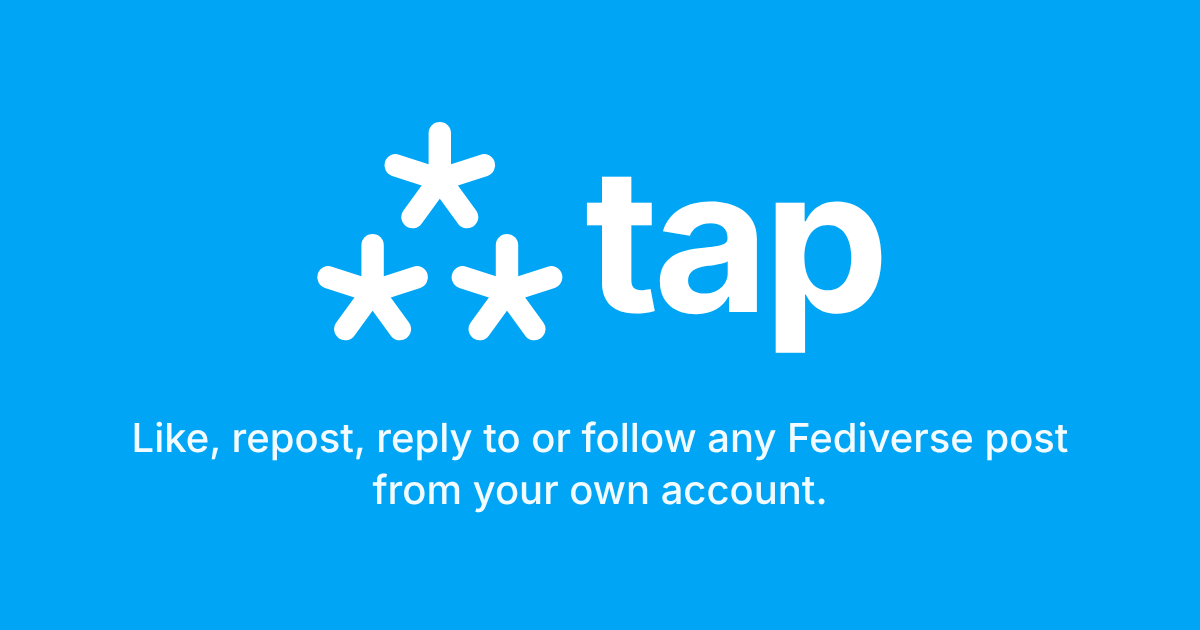
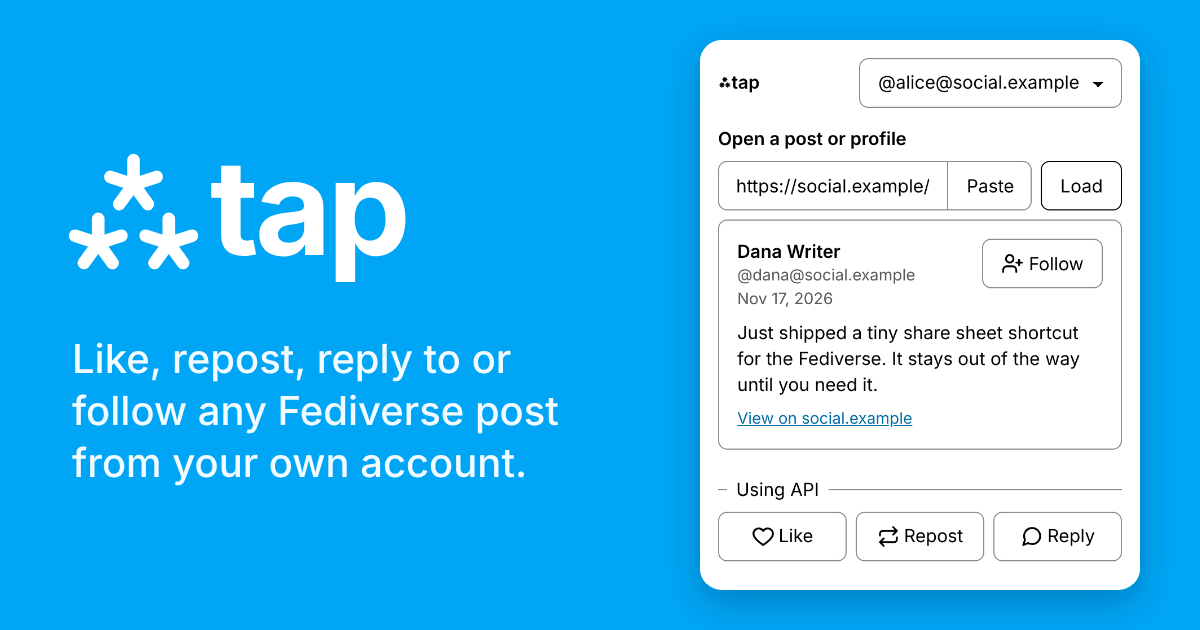
Show the app with a post loaded in the link preview image
The screenshot is captured from the mock server with tools/og/capture.js.

Claude-Session: https://claude.ai/code/session_01B8Ng6bi788ys3Ph3Qe6Keq

diff --git a/tools/og/capture.js b/tools/og/capture.js
@@ -1,0 +1,37 @@
+// Captures the app with a post loaded from the mock server, for the link preview image
+// (tools/og/app.png, framed by tools/og/og-image.svg). Start the dev server first (`npm run dev`),
+// then run `node tools/og/capture.js [base URL]`; the default base is https://localhost:8443.
+// The mock's host shows as social.example, so handles read as they would on a real server.
+import { chromium } from "@playwright/test";
+
+const root = new URL("../..", import.meta.url).pathname;
+const base = process.argv[2] ?? "https://localhost:8443";
+const browser = await chromium.launch({ executablePath: process.env.CHROMIUM_PATH });
+const page = await browser.newPage({
+  viewport: { width: 390, height: 482 },
+  deviceScaleFactor: 2,
+  colorScheme: "light",
+  ignoreHTTPSErrors: true,
+});
+
+await page.goto(`${base}/_dev/`);
+await page.evaluate(() => fetch("/_dev/reset", { method: "POST" }));
+await page.goto(`${base}/`);
+await page.fill("#account-input", `${base}/users/alice`);
+await Promise.all([page.waitForURL(/oauth\/authorize/), page.click("#continue")]);
+await page.selectOption("select[name=user]", "alice");
+await Promise.all([page.waitForURL(`${base}/`), page.click("button[value=approve]")]);
+await page.fill("#post-url", "https://social.example/@dana/1");
+await page.click("#open-link");
+await page.waitForSelector('main[data-view="loaded"] button[data-action="like"]');
+await page.evaluate(() => {
+  const walker = document.createTreeWalker(document.body, NodeFilter.SHOW_TEXT);
+  while (walker.nextNode()) {
+    walker.currentNode.nodeValue = walker.currentNode.nodeValue.replaceAll(
+      "localhost",
+      "social.example",
+    );
+  }
+});
+await page.screenshot({ path: `${root}tools/og/app.png` });
+await browser.close();

diff --git a/tools/og/render.js b/tools/og/render.js
@@ -1,14 +1,12 @@
-// Renders tools/og/og-image.svg to public/og-image.png (1200×630) for link previews.
+// Renders tools/og/og-image.svg (with the app screenshot tools/og/app.png) to public/og-image.png (1200×630) for link previews.
 // Run with `node tools/og/render.js`. Uses Inter when installed, else system-ui.
 // Set CHROMIUM_PATH to use a browser other than the one `npm run e2e:install` installs.
-import { readFileSync } from "node:fs";
 import { chromium } from "@playwright/test";
 
 const root = new URL("../..", import.meta.url).pathname;
-const svg = readFileSync(`${root}tools/og/og-image.svg`, "utf8");
 const browser = await chromium.launch({ executablePath: process.env.CHROMIUM_PATH });
 const page = await browser.newPage({ viewport: { width: 1200, height: 630 } });
-await page.setContent(`<body style="margin:0">${svg}</body>`);
+await page.goto(`file://${root}tools/og/og-image.svg`);
 await page.screenshot({
   path: `${root}public/og-image.png`,
   clip: { x: 0, y: 0, width: 1200, height: 630 },

diff --git a/index.html b/index.html
@@ -30,7 +30,7 @@
     <meta property="og:image:height" content="630">
     <meta
       property="og:image:alt"
-      content="⁂tap: like, repost, reply to or follow any Fediverse post from your own account."
+      content="⁂tap: like, repost, reply to or follow any Fediverse post from your own account. Beside it, the app with a post loaded and its Like, Repost and Reply buttons."
     >
     <meta name="twitter:card" content="summary_large_image">
     <link rel="manifest" href="/manifest.webmanifest">

diff --git a/docs/development.md b/docs/development.md
@@ -219,4 +219,4 @@ Proxy responses are read with a 1 MB cap and the HTML in them is cut to 20,000 c
 
 Failures use one pattern: a plain-text alert (bold title, one sentence) directly below the input it belongs to (the input is marked `aria-invalid` and `aria-describedby` points at the alert, and the value stays editable), a button only where there is a different way forward, and an optional "What to do" disclosure (steps, help link, technical detail such as HTTP codes). A failed handle lookup keeps the typed value and offers "Use profile link". When storage is blocked, its saved data is damaged (a Reset button removes only this app's key) or the browser lacks Web Locks, `AbortSignal.timeout` or `crypto.subtle`, the page shows a full-screen explanation instead of a disabled form.
 
-`manifest.webmanifest` makes the page installable (`display: standalone`, `start_url` and `scope` `./`); the CSP allows `manifest-src 'self'` and `img-src 'self'` for the icons (`apple-touch-icon.png` 180 px, `icon-192.png`, `icon-512.png`, `#00a6f5` with a white ⁂, generated from `tools/icons/icon.svg` with `rsvg-convert -w <size> -h <size> tools/icons/icon.svg -o public/<name>.png`). Link previews (Open Graph and `twitter:card` `summary_large_image` in `index.html`) use `public/og-image.png`, 1200×630, the same mark with the wordmark and tagline, rendered from `tools/og/og-image.svg` with `node tools/og/render.js` (Playwright's Chromium, Inter font when installed; set `CHROMIUM_PATH` to use another Chromium). Preview crawlers ignore the CSP and need absolute URLs, so those tags name the published address. Serve the manifest as `application/manifest+json`. A `share_target` (GET to `./` with `title`, `text` and `url`) adds FediTap to the Android share sheet once installed; Android usually puts the link in `text`, so the page takes the first HTTPS link from `url` or else `text`. iOS ignores `share_target`, so the Shortcut remains the iOS mechanism. In standalone mode (`display-mode: standalone` or `navigator.standalone`) the page hides the "Add to Home Screen" hint, tells the person that the Shortcut opens Safari and that this app keeps its own sign-in, and pads for the safe areas. A Home Screen app and Safari keep separate storage on iOS, so each needs its own sign-in.
+`manifest.webmanifest` makes the page installable (`display: standalone`, `start_url` and `scope` `./`); the CSP allows `manifest-src 'self'` and `img-src 'self'` for the icons (`apple-touch-icon.png` 180 px, `icon-192.png`, `icon-512.png`, `#00a6f5` with a white ⁂, generated from `tools/icons/icon.svg` with `rsvg-convert -w <size> -h <size> tools/icons/icon.svg -o public/<name>.png`). Link previews (Open Graph and `twitter:card` `summary_large_image` in `index.html`) use `public/og-image.png`, 1200×630: the mark, wordmark and tagline beside the app with a post loaded, rendered from `tools/og/og-image.svg` with `node tools/og/render.js`. The app picture is `tools/og/app.png`, taken from the mock server with `node tools/og/capture.js` while `npm run dev` runs (light mode, 390 px wide at 2×, signed in as `alice`, Dana's post `https://social.example/@dana/1` loaded, cropped after the first row of actions, and the mock's `localhost` shown as `social.example`). Retake both when the page changes visibly. Both scripts use Playwright's Chromium and Inter when installed; set `CHROMIUM_PATH` to use another Chromium. Preview crawlers ignore the CSP and need absolute URLs, so those tags name the published address. Serve the manifest as `application/manifest+json`. A `share_target` (GET to `./` with `title`, `text` and `url`) adds FediTap to the Android share sheet once installed; Android usually puts the link in `text`, so the page takes the first HTTPS link from `url` or else `text`. iOS ignores `share_target`, so the Shortcut remains the iOS mechanism. In standalone mode (`display-mode: standalone` or `navigator.standalone`) the page hides the "Add to Home Screen" hint, tells the person that the Shortcut opens Safari and that this app keeps its own sign-in, and pads for the safe areas. A Home Screen app and Safari keep separate storage on iOS, so each needs its own sign-in.
